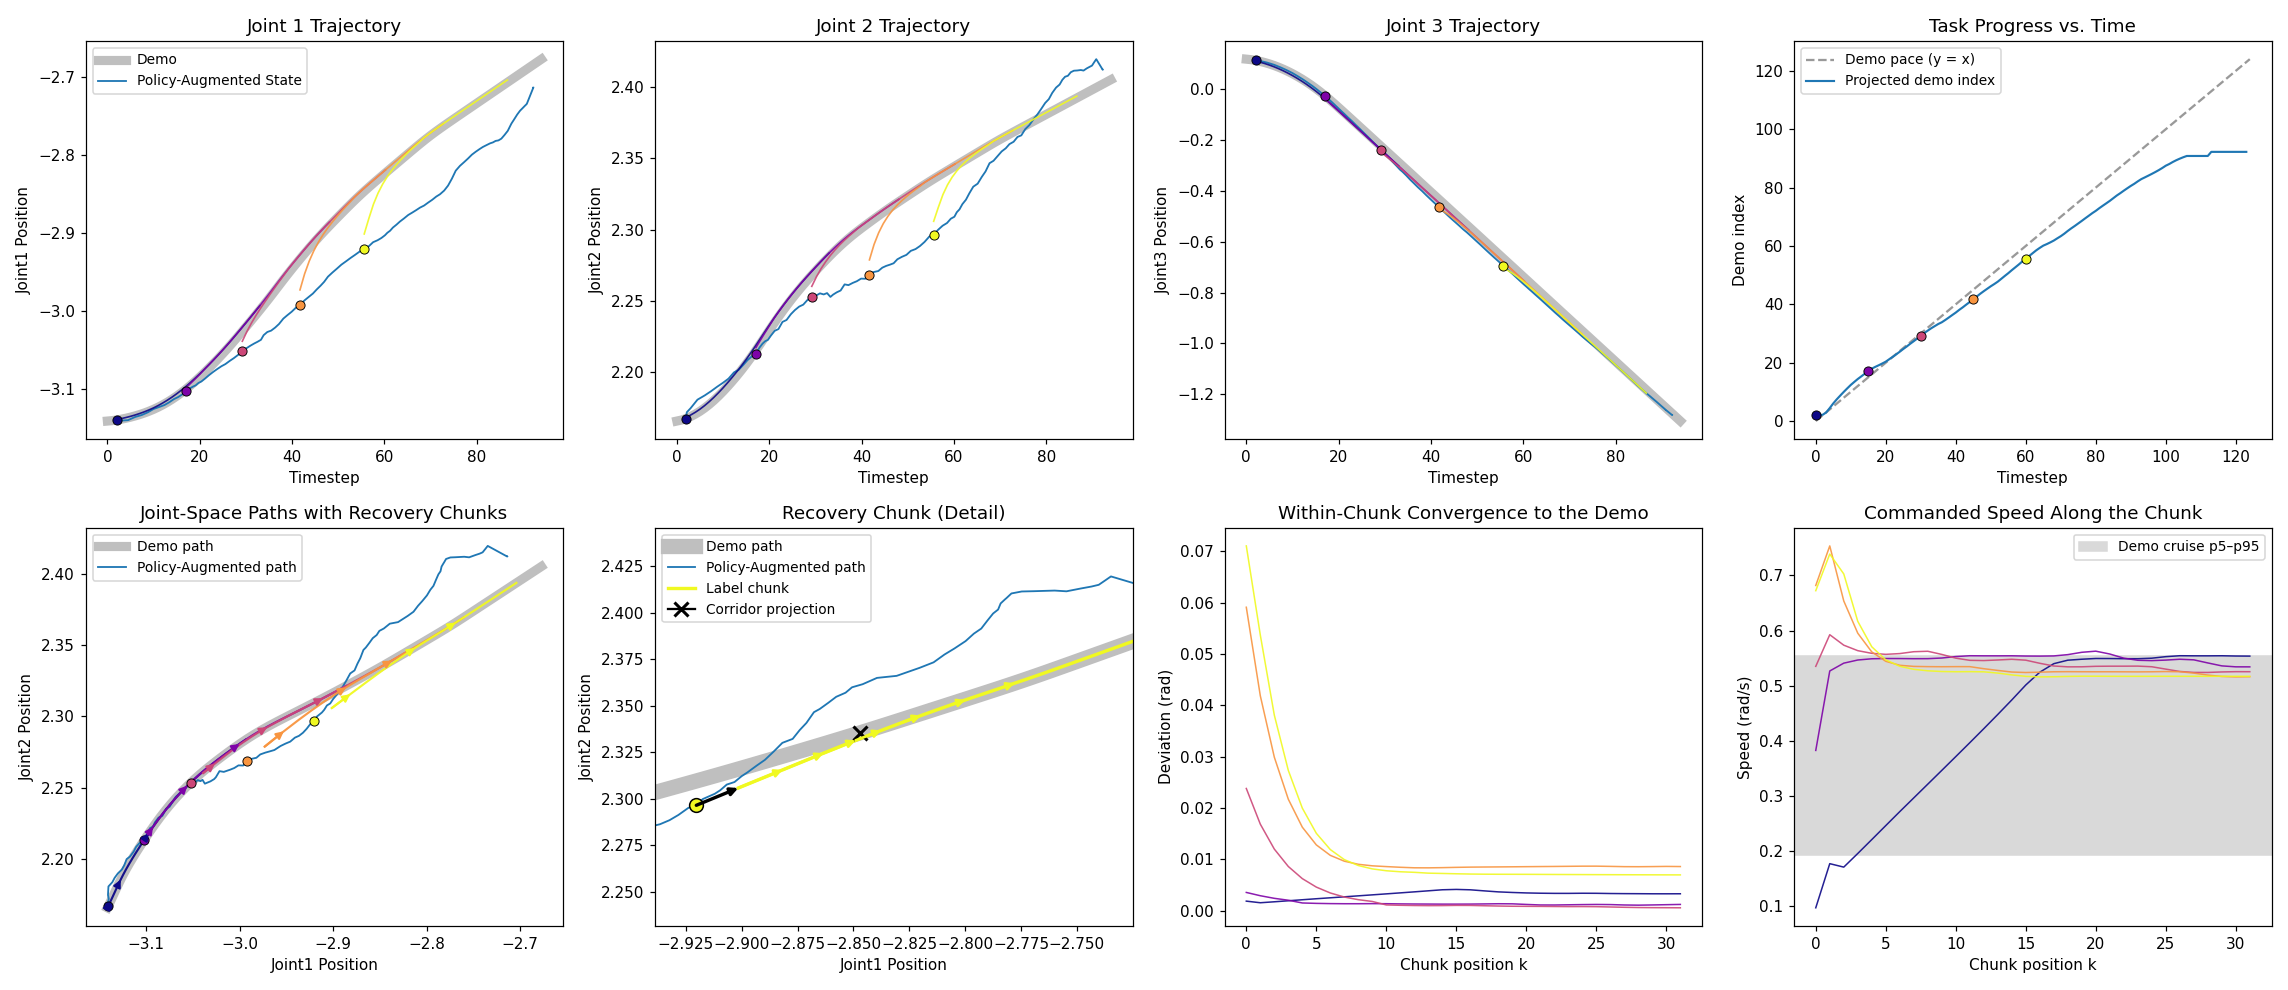
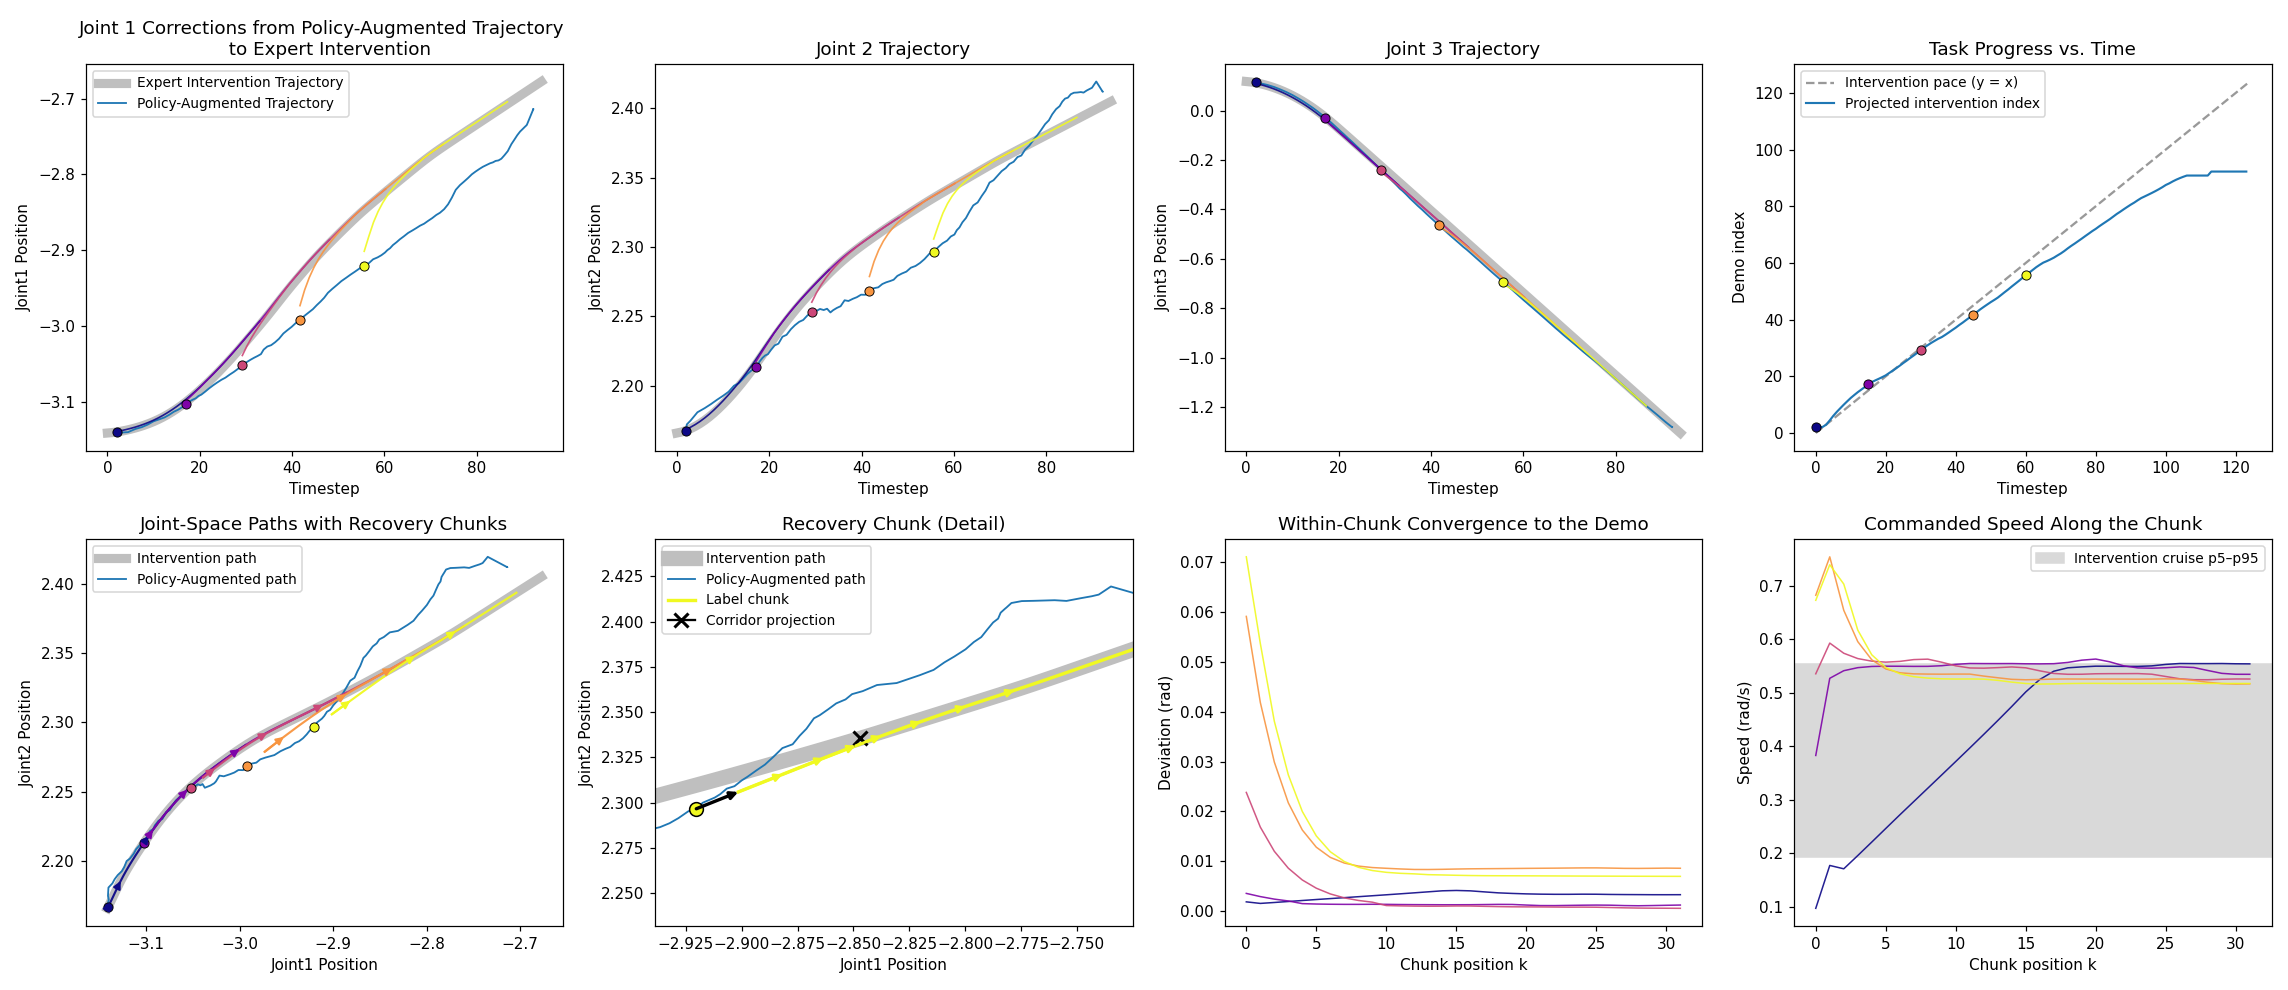
docs: AGENTS.md for _nc rename / separate lineage / repeat studies; paper figure text
AGENTS.md documents the _nocoll→_nc rename (write-new/read-old), the
--separate_blend_lineage mode (own DAgger loop, naming, cleanup prompts),
the sweep's source-only mode, and dagger_orchestrate_repeat.sh semantics.

dart_chunks_src47 paper figure regenerated with publication label text
(Expert Intervention / Policy-Augmented Trajectory naming).

diff --git a/scripts/paper_plots/dart_chunks_src47/plot.py b/scripts/paper_plots/dart_chunks_src47/plot.py
@@ -25,7 +25,11 @@ import numpy as np
 # ── figure text (EDIT ME) ─────────────────────────────────────────────────
 TEXT = {
     "suptitle": "",  # e.g. "Chunk-Level DART Relabeling of a Policy-Augmented Rollout"
-    "joint_titles": ["Joint 1 Trajectory", "Joint 2 Trajectory", "Joint 3 Trajectory"],
+    "joint_titles": [
+        "Joint 1 Corrections from Policy-Augmented Trajectory \n  to Expert Intervention",
+        "Joint 2 Trajectory",
+        "Joint 3 Trajectory",
+    ],
     "clock_title": "Task Progress vs. Time",
     "phase_title": "Joint-Space Paths with Recovery Chunks",
     "zoom_title": "Recovery Chunk (Detail)",
@@ -33,15 +37,15 @@ TEXT = {
     "speed_title": "Commanded Speed Along the Chunk",
     "xlabel_time": "Timestep",
     "ylabel_joint": "Joint{j} Position",
-    "legend_demo": "Demo",
-    "legend_state": "Policy-Augmented State",
-    "legend_demo_path": "Demo path",
+    "legend_demo": "Expert Intervention Trajectory",
+    "legend_state": "Policy-Augmented Trajectory",
+    "legend_demo_path": "Intervention path",
     "legend_state_path": "Policy-Augmented path",
     "legend_chunk": "Label chunk",
     "legend_projection": "Corridor projection",
-    "legend_pace": "Demo pace (y = x)",
-    "legend_progress": "Projected demo index",
-    "legend_cruise": "Demo cruise p5–p95",
+    "legend_pace": "Intervention pace (y = x)",
+    "legend_progress": "Projected intervention index",
+    "legend_cruise": "Intervention cruise p5–p95",
 }
 
 # ── plot parameters ───────────────────────────────────────────────────────
